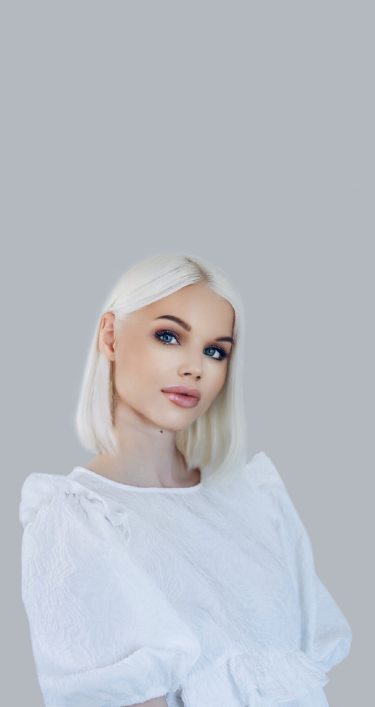
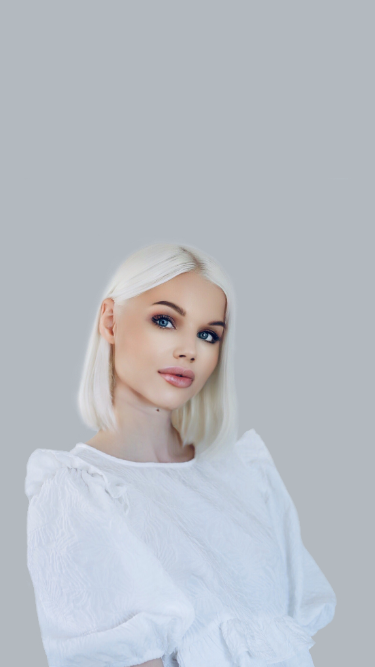
change of pic

diff --git a/code/src/components/Header.js b/code/src/components/Header.js
@@ -4,12 +4,15 @@ import { FontAwesomeIcon } from "@fortawesome/react-fontawesome"
 import "../css/header.css"
 import { Arrow } from "../resources/Arrow"
 import data from '../data/data'
+import { useMediaQuery } from '../hooks/useMediaQuery'
 
 export const Header = () => {
 
+  const isMobile = useMediaQuery('(min-width: 500px)')
+
   const hero = {
-    backgroundImage: 'url(' + data.about.hero + ')',
-    backgroundSize: 'cover',
+    backgroundImage: isMobile ? 'url(' + data.about.hero + ')' : 'url(' + data.about.mobilehero + ')',
+    backgroundSize: 'cover'
   }
 
 

diff --git a/code/src/css/pages.css b/code/src/css/pages.css
@@ -189,7 +189,7 @@ h5{
 
   .about div{
     padding: 0;
-    justify-content: flex-start;
+    justify-content: space-between;
   }
 
   .skills-container p,
